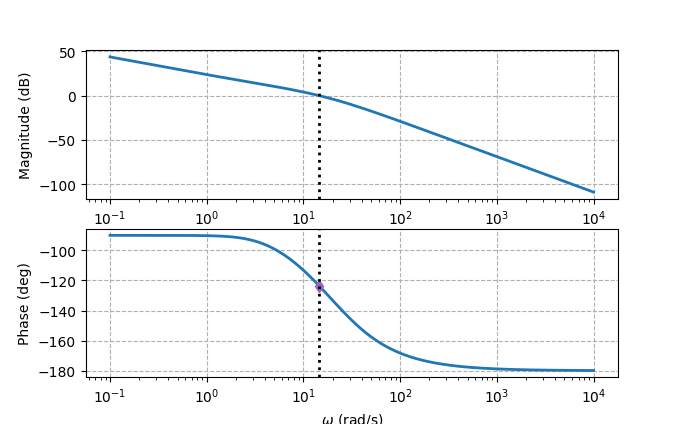
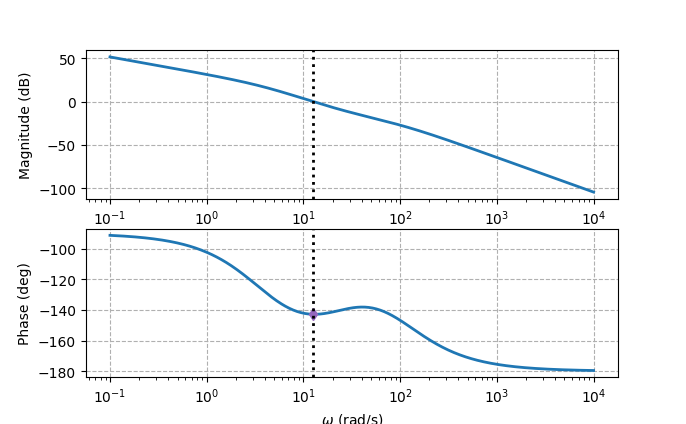
question 2 final

diff --git a/Homework 6/Homework_6_question2.py b/Homework 6/Homework_6_question2.py
@@ -2,10 +2,7 @@
 
 import numpy as np
 from matplotlib import pyplot as plt
-from scipy import signal
 import control
-import warnings
-
 import siso_rob_perf as srp
 
 plt.rc('lines', linewidth=2)
@@ -17,14 +14,17 @@ height = 4.25
 
 s = control.tf('s')
 
+# frequency grids
 w_shared_low, w_shared_high, N_w = -1, 4, 500
 w_shared = np.logspace(w_shared_low, w_shared_high, N_w)
 
 w_shared_low_2, w_shared_high_2, N_w_2 = -3, 4, 6000
 w_shared_2 = np.logspace(w_shared_low_2, w_shared_high_2, N_w_2)
 
+# plant
 P = 10 / (s + 4)
 
+# specs
 gamma_r, w_r_h = 10**(-10 / 20), 5
 gamma_d, w_d_h = 10**(-10 / 20), 0.5
 gamma_n, w_n_l = 10**(-30 / 20), 200
@@ -42,68 +42,63 @@ gamma_u_dB = 20 * np.log10(gamma_u) * np.ones(w_u.shape[0],)
 
 W2 = 0
 
-
-w_c = 10
+# controller design: PI + rolloff
+w_c = 10.0
 print(r'w_c = ', w_c, '\n')
 
 complex_s = 1j * w_c
 p_val = control.evalfr(P, complex_s)
-k_scale = 1.6
-k_g = k_scale / abs(p_val)
+k_g = 1.5 / abs(p_val)
 print(r'k_g = ', k_g, '\n')
 
 w_beta = w_c
-beta = 3
+beta = 0.4
 C_boost = (beta * s + w_beta) / (s * np.sqrt(beta**2 + 1))
 
 w_rho = w_c
-rho = 2
+rho = 10
 C_roll = (w_rho * np.sqrt(rho**2 + 1)) / (s + rho * w_rho)
 
 C = k_g * C_boost * C_roll
 C = control.minreal(C, verbose=False)
 print('C(s) =', C)
 
-# open-loop transfer function
 L = P * C
 
-# (iii) |L|, 1/gamma_r, gamma_n
+# plot L with 1/gamma_r and gamma_n  (part iii)
 fig_L, ax_L = srp.bode_mag_L(P, C, gamma_r, w_r_h, gamma_n, w_n_l,
                              w_shared_low, w_shared_high, w_shared)
 fig_L.set_size_inches(height * gr, height, forward=True)
 ax_L.legend(loc='lower left')
 
-# (iv) |S|, |T|, gamma_r, gamma_n and ω_d
+# plot S and T with gamma_r, gamma_n and w_d  (part iv)
 fig_S_T, ax_ST = srp.bode_mag_S_T(P, C, gamma_r, w_r_h, w_d_h,
                                   gamma_n, w_n_l,
                                   w_shared_low, w_shared_high, w_shared)
 ax_ST.legend(loc='center left', bbox_to_anchor=(1, 0.5))
 
-# (ii) gain, phase, vector margins
+# margins: gain, phase, vector  (part ii)
 fig_margins, ax_m, gm, pm, vm, wpc, wgc, wvm = srp.bode_margins(P, C, w_shared)
 fig_margins.set_size_inches(height * gr, height, forward=True)
 print(f'\nGain margin is {20 * np.log10(gm):.2f} (dB) at phase crossover frequency w_pc = {wpc:.2f} rad/s')
 print(f'Phase margin is {pm:.2f} (deg) at gain crossover frequency w_gc = {wgc:.2f} rad/s')
 print(f'Vector margin is {vm:.2f} at frequency w_vm = {wvm:.2f} rad/s')
 
-# annotate gain and phase crossover frequencies on the margins Bode plot
-# ax_m is [mag_axis, phase_axis]
 mag_ax, phase_ax = ax_m
 mag_ax.axvline(wgc, linestyle=':', color='k')
 phase_ax.axvline(wgc, linestyle=':', color='k')
 phase_ax.axvline(wpc, linestyle='--', color='k')
 
-# Nyquist for (c.i)
-with warnings.catch_warnings():
-    warnings.simplefilter("ignore", UserWarning)
-    response = control.nyquist_response(control.minreal(L, verbose=False), omega=w_shared_2)
+# Nyquist plot of L  (part i)
+response = control.nyquist_response(control.minreal(L, verbose=False),
+                                    omega=w_shared_2)
 
 fig_Nyquist, ax_Nyquist = plt.subplots()
 response.plot()
 fig_Nyquist.tight_layout()
 print('Number of encirclements of -1: ', response.count)
 
-# sensitivity S and complementary sensitivity T
+# sensitivity and complementary sensitivity
 S = control.feedback(1, L, -1)
 T = control.feedback(L, 1, -1)
 
@@ -111,11 +106,11 @@ mag_S, _, _ = control.frequency_response(S, w_shared)
 mag_T, _, _ = control.frequency_response(T, w_shared)
 mag_L, _, _ = control.frequency_response(L, w_shared)
 
-M_s = max(mag_S)
+M_s = np.max(mag_S)
 M_s_dB = 20 * np.log10(M_s)
 print(f'M_s = {M_s_dB:.2f} dB')
 
-# (iii) check command-following and noise specs using |L|
+# specs check using L
 mask_low = w_shared <= w_r_h
 mask_high = w_shared >= w_n_l
 
@@ -126,7 +121,7 @@ print('\n(iii) Check using |L(jw)|:')
 print(f'  Tracking spec |L| >= 1/gamma_r up to w_r = {w_r_h} rad/s: {tracking_L_ok}')
 print(f'  Noise spec |L| <= gamma_n for w >= w_n = {w_n_l} rad/s: {noise_L_ok}')
 
-# (iv) check specs using |S| and |T|
+# specs check using S and T
 tracking_S_ok = np.max(mag_S[mask_low]) <= gamma_r
 noise_T_ok = np.max(mag_T[mask_high]) <= gamma_n
 Ms_ok = M_s_dB <= 6.0
@@ -136,5 +131,82 @@ print(f'  M_s <= 6 dB: {Ms_ok}')
 print(f'  Low-frequency command-following spec |S| <= gamma_r for w <= w_r: {tracking_S_ok}')
 print(f'  High-frequency noise spec |T| <= gamma_n for w >= w_n: {noise_T_ok}')
 print('  Consistency of M_s with margins: phase margin ~{:.1f} deg, so M_s is reasonable.'.format(pm))
+
+# (v) Plot L and P
+fig_LP, ax_LP = srp.bode_mag_L_P(
+    P, C,
+    gamma_d, w_d_h,
+    gamma_u, w_u_l,
+    w_shared
+)
+fig_LP.set_size_inches(height * gr, height, forward=True)
+ax_LP.legend(loc="best")
+
+# (vi) Gang of four plots
+fig_G4, ax_G4 = srp.bode_mag_Gof4(
+    P, C,
+    gamma_r, w_r_h,
+    gamma_d, w_d_h,
+    gamma_n, w_n_l,
+    gamma_u, w_u_l,
+    w_shared_low, w_shared_high, w_shared
+)
+fig_G4.set_size_inches(height * gr, height, forward=True)
+
+# (vii) Time-domain response
+
+# time grid
+t_final = 4.0
+N_t = 2000
+t = np.linspace(0, t_final, N_t)
+
+# command filter r(t)
+a = 8.0
+G = a / (s + a)
+u_cmd = np.where((t >= 0.0) & (t < 2.0), 1.0, 0.0)
+t_r, r_t = control.forced_response(G, T=t, U=u_cmd)
+
+# measurement noise
+w_n = w_n_l
+n_t = np.sin(w_n * t_r)
+
+# closed-loop TFs
+S = control.feedback(1, L, -1)
+T_tf = control.feedback(L, 1, -1)
+CS = control.minreal(C * S, verbose=False)
+
+# responses to r(t)
+_, z_r = control.forced_response(T_tf, T=t_r, U=r_t)
+_, u_r = control.forced_response(CS, T=t_r, U=r_t)
+
+# responses to noise
+_, z_n = control.forced_response(-T_tf, T=t_r, U=n_t)
+_, u_n = control.forced_response(-CS, T=t_r, U=n_t)
+
+# total signals
+z_t = z_r + z_n
+u_t = u_r + u_n
+e_t = r_t - z_t
+
+# plot outputs
+fig_rt, ax_rt = plt.subplots()
+ax_rt.plot(t_r, r_t, 'r--', label='r(t)')
+ax_rt.plot(t_r, z_t, 'b-', label='z(t)')
+ax_rt.set_xlabel('t (s)')
+ax_rt.set_ylabel('output')
+ax_rt.legend()
+ax_rt.set_title('Reference and plant output')
+
+fig_ut, ax_ut = plt.subplots()
+ax_ut.plot(t_r, u_t, 'k-')
+ax_ut.set_xlabel('t (s)')
+ax_ut.set_ylabel('u(t)')
+ax_ut.set_title('Control signal')
+
+fig_et, ax_et = plt.subplots()
+ax_et.plot(t_r, e_t, 'g-')
+ax_et.set_xlabel('t (s)')
+ax_et.set_ylabel('e(t)')
+ax_et.set_title('Tracking error')
 
 plt.show()
